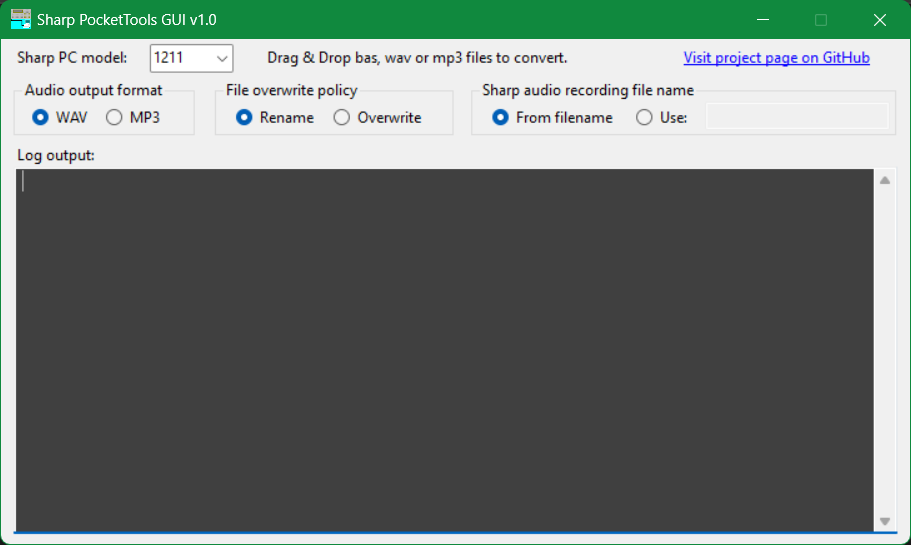
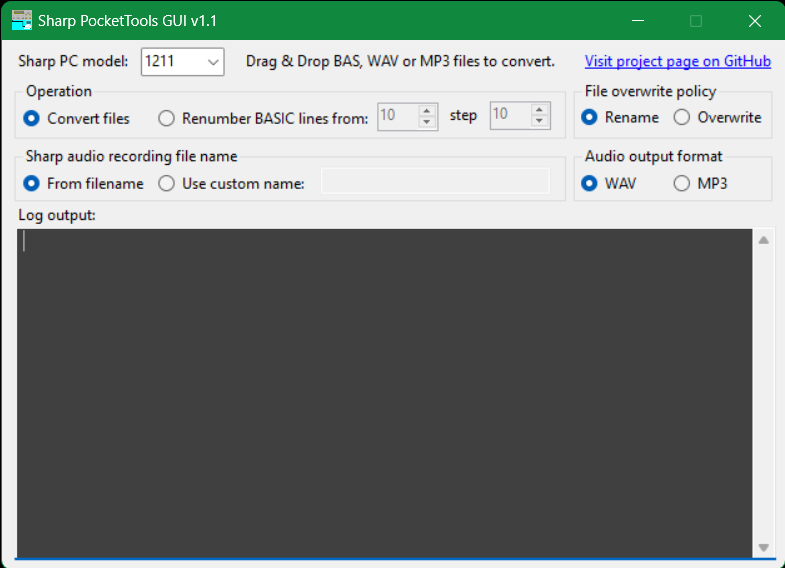
Add new screenshot and list features in Readme

Changed region(s): [[0.0, 0.0, 1.0, 1.0], [0.9478, 0.0, 1.0, 0.0624], [0.8866, 0.0, 0.9172, 0.0624]]

diff --git a/README.md b/README.md
@@ -2,6 +2,14 @@
 
 ![screenshot](screenshot.png?raw=true)
 
+## Features
+- Convert BASIC programs to WAV or MP3 for loading on real hardware or recording on tape.
+- Use a custom Sharp program filename for the audio file.
+- Convert WAV or MP3 recordings to BASIC programs to easily edit on the computer.
+- Renumber BASIC lines to make room for more lines or space the instructions evenly. This will also change GOTO, GOSUB or THEN keywords to match the new line numbers.
+
+## Description
+
 This application helps with converting Sharp / TRS-80 Pocket PC BASIC programs from BAS source file to WAV or MP3 or viceversa.
 
 The application is a Graphical User Interface for the PocketTools original command line tools found on http://pocket.free.fr/html/soft/soft_e.html or https://www.peil-partner.de/ifhe.de/sharp/
@@ -19,6 +27,10 @@ Download the compiled software package from the Releases page, then extract the 
 Drag and drop the BAS source file to convert to audio file to be loaded on Sharp PC, or the audio file to be converted to the BASIC source file. It supports bulk operation if you drag more than one file at a time. The output file is written in the same directory as the source file.
 
 You can set conversion options directly in the main window.
+
+To renumber lines in a BASIC file, choose the right option and drag & drop the file. If the Rename option is choosen, a new file will be created with the new line numbering. If the overwrite option is choosen, the original file will be overwritten.
+
+If there are any issues in the conversion or renumbering process, the log will state the exact issue. For example, if there are GOTO statements that do not jump to a constant line number, you will be prompted to double check and adjust the result manually.
 
 ## Resources
 You can find sample ready made programs for Sharp 1211 here: https://github.com/Robert-van-Engelen/119-Practical-Programs-for-the-TRS-80-Pocket-Computer
